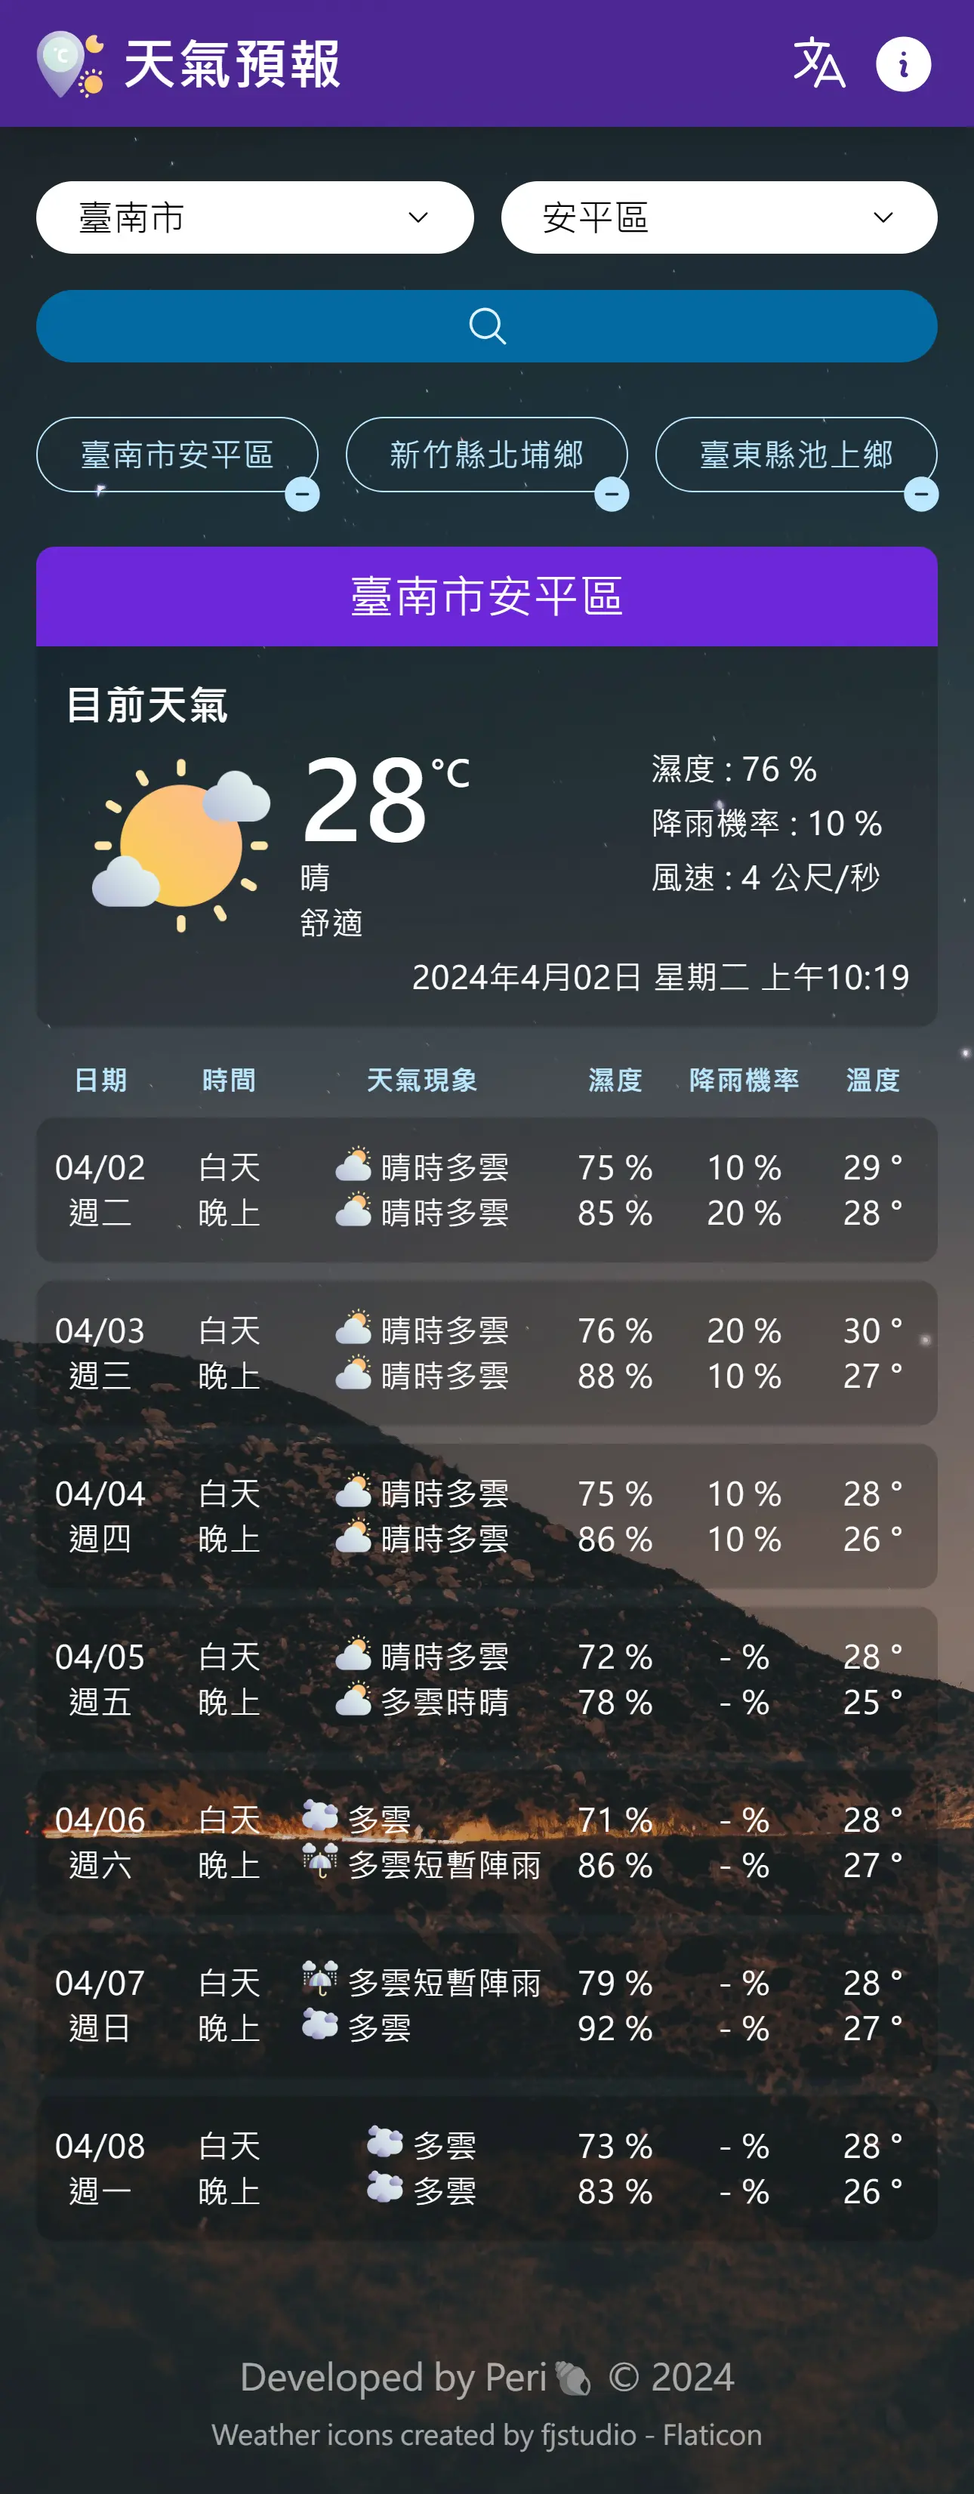
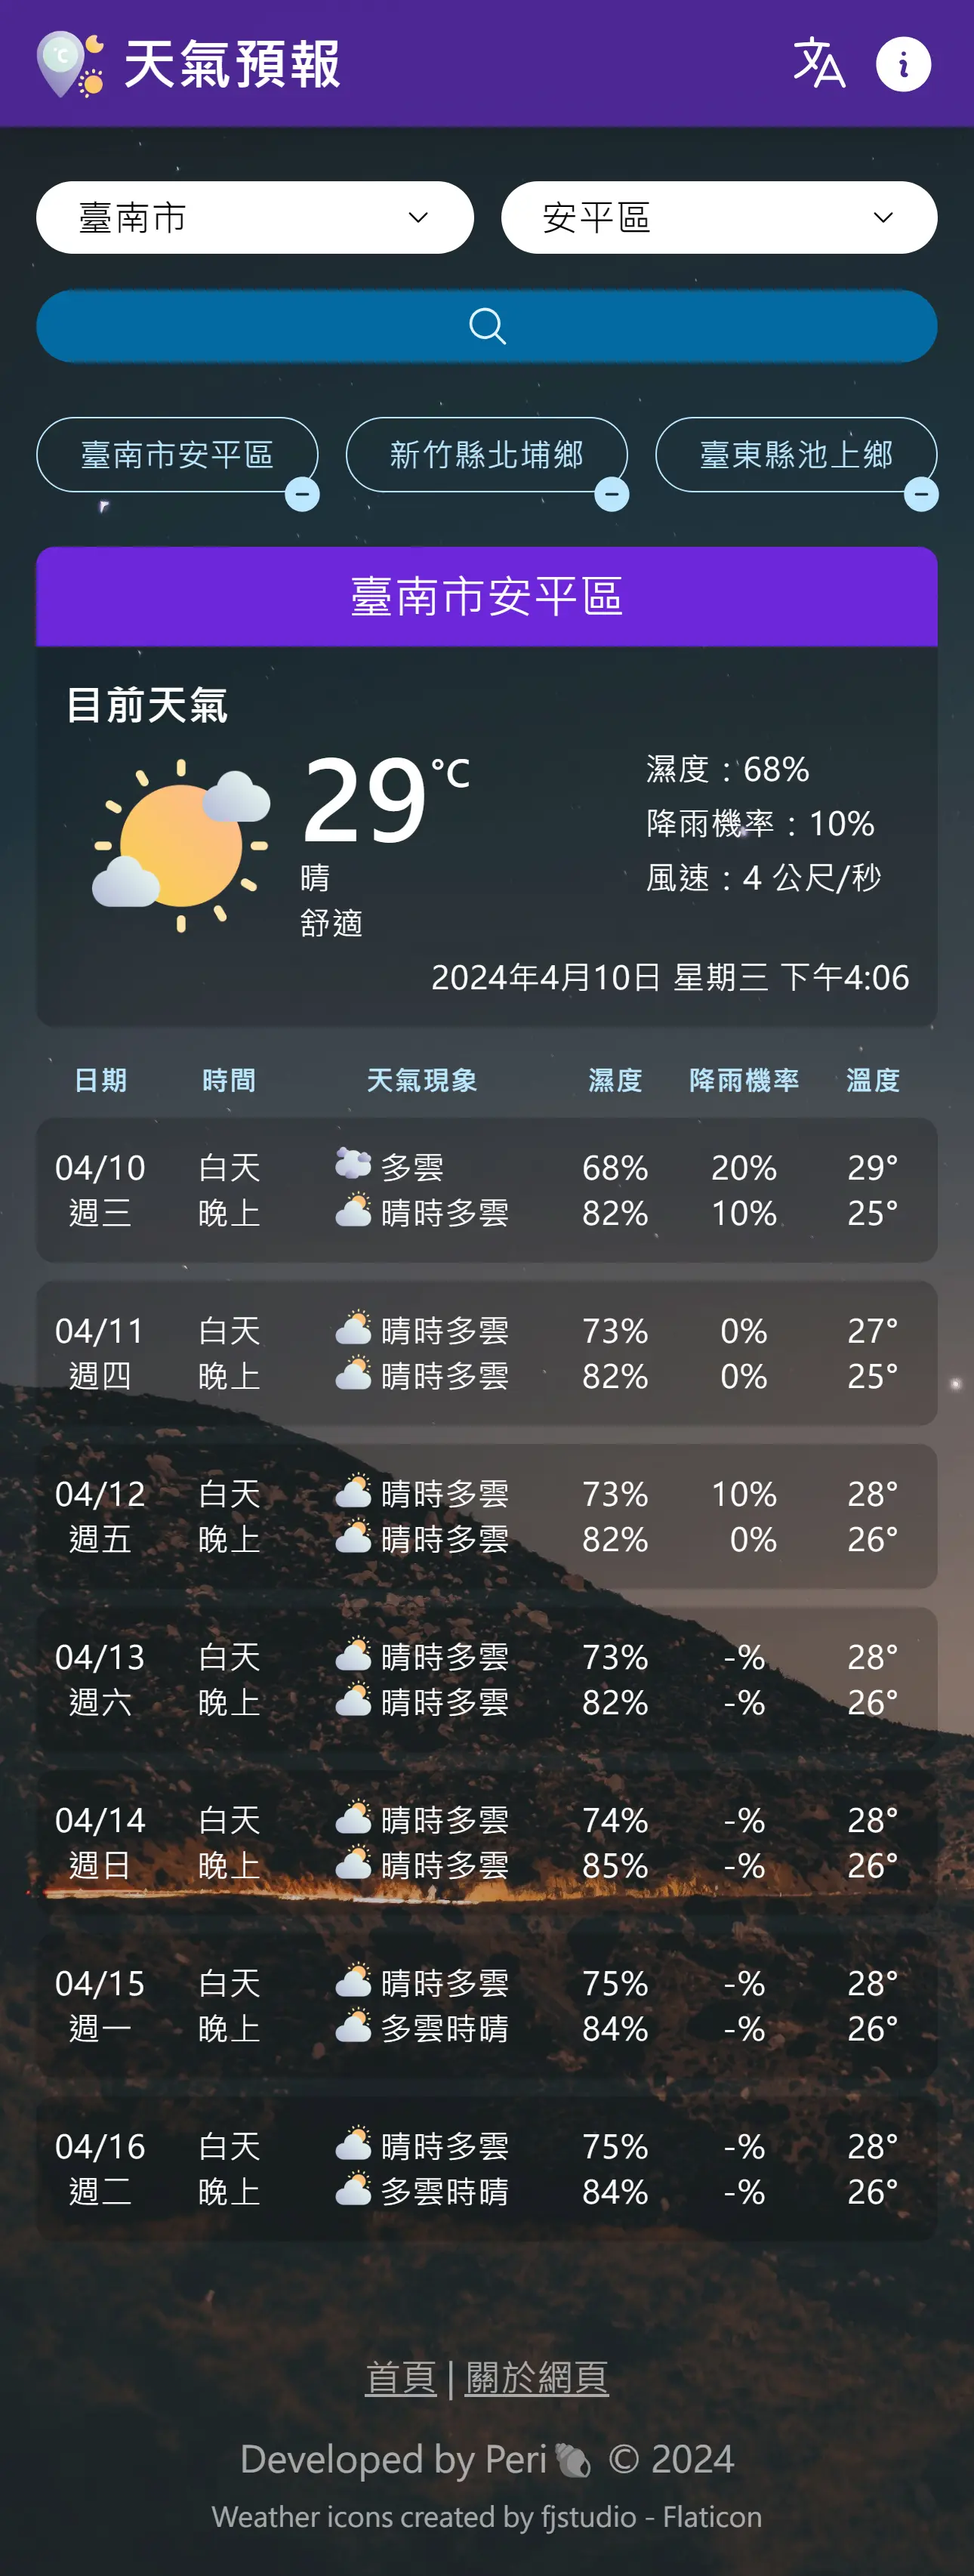
Update README.md and preview images

diff --git a/README.md b/README.md
@@ -6,17 +6,17 @@
 
 - 下拉式選單供使用者快速選取地區。
 - 本地自動儲存地區紀錄，可以讀取上次查詢的地區，新增、刪除地區紀錄，點擊地區紀錄即可查看最新天氣資訊。
-- 即時氣象因子: 包含天氣現象、平均溫度、舒適度指數、每 6 小時降雨機率、相對濕度、風速等天氣資訊。
-- 一週天氣預報因子: 包含天氣現象、相對濕度、每 12 小時降雨機率、平均溫度等天氣資訊。
-- 網頁提供按鈕切換中文、English 語言介面。
+- 提供按鈕切換中文、English 語言介面。
 - 響應式網頁設計(RWD)。
 - 漸進式網路應用程式(PWA)。
+- 即時氣象因子: 包含天氣現象、平均溫度、舒適度指數、每 6 小時降雨機率、相對濕度、風速等天氣資訊。
+- 一週天氣預報因子: 包含天氣現象、相對濕度、每 12 小時降雨機率、平均溫度等天氣資訊。
 
 ## Demo
 
 Live Demo: [天氣預報](https://periondev.github.io/tw-weather/)
 
-<img alt="screenshot" src="Preview-Images/vue-weather_(Surface Pro 7).webp" width="560px" />
+<img alt="screenshot" src="Preview-Images/vue-weather_(pc).webp" width="560px" />
 <img alt="screenshot" src="Preview-Images/vue-weather_(iPhone 14 Pro Max).webp" width="200px" />
 
 ## 參考文件
@@ -35,4 +35,5 @@ This is a Vue 3 project bootstrapped with [create-vue](https://github.com/vuejs/
 - Language: TypeScript
 - Framework: Vue.js (Vue 3)
 - Styling: Tailwind CSS
+- Internationalization: Vue I18n
 - Deployment: GitHub Pages & GitHub Actions
